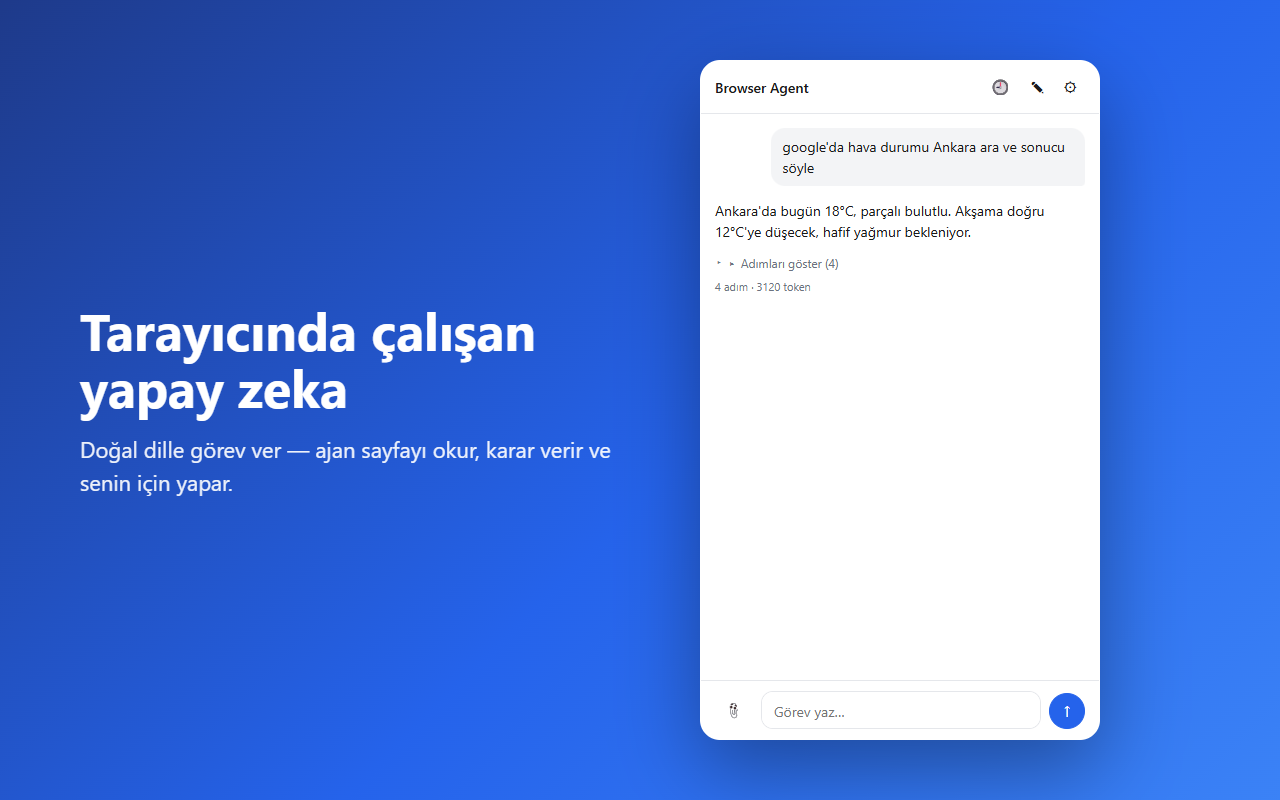
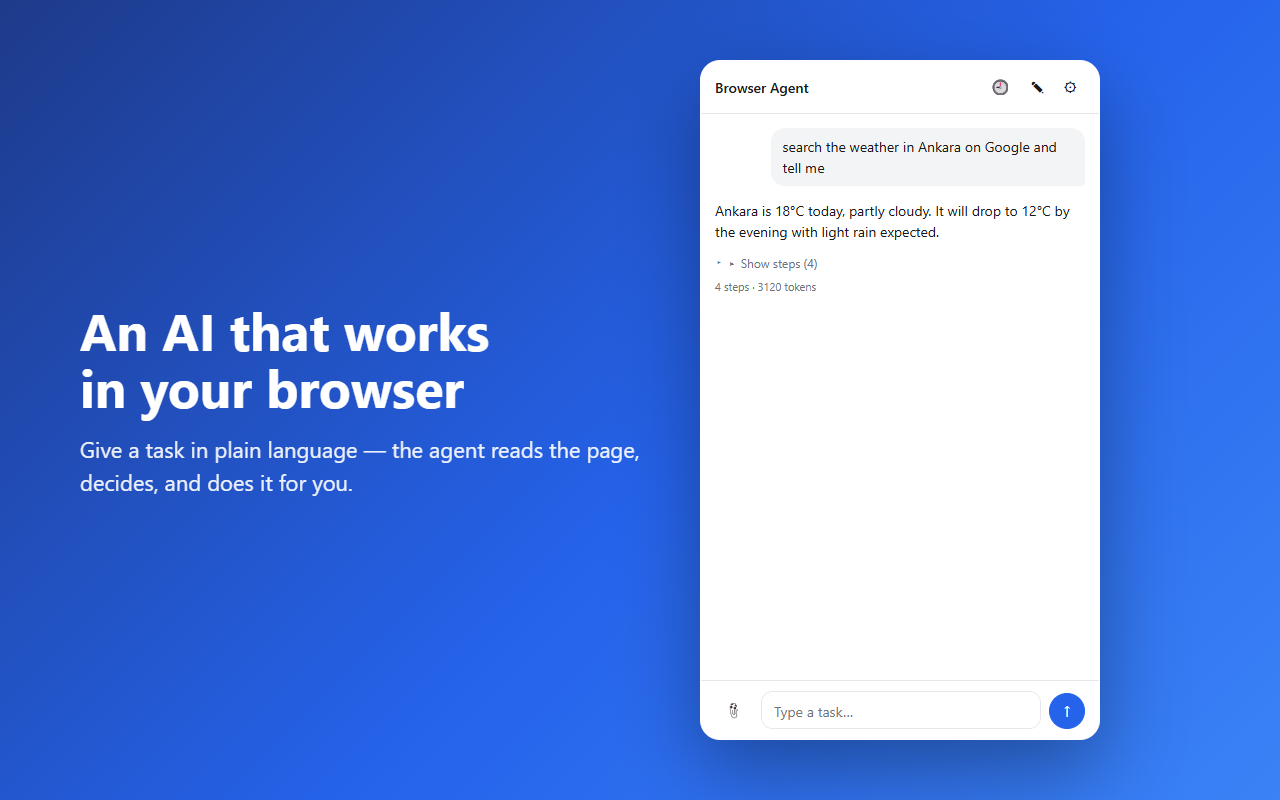
TR/EN dil secenegi + Ingilizce varsayilan + Ingilizce ekran goruntuleri
- i18n.ts: TR/EN ceviri sozlugu, data-i18n attribute'lariyla arayuz cevrilir.
  Ayarlarda dil secici (Turkce/English), secim chrome.storage'da saklanir.
- Varsayilan dil ARTIK INGILIZCE (uluslararasi kullanicilar icin). HTML statik
  metinleri de Ingilizce.
- Bug fix: data-i18n dogrudan label'da textContent select'i siliyordu; etiket
  metni span'a alindi.
- Store ekran goruntuleri Ingilizce yeniden render edildi.
- Uzanti v0.6.0.

diff --git a/packages/extension/src/sidepanel/sidepanel.html b/packages/extension/src/sidepanel/sidepanel.html
@@ -1,5 +1,5 @@
 <!DOCTYPE html>
-<html lang="tr">
+<html lang="en">
 <head>
   <meta charset="utf-8">
   <meta name="viewport" content="width=device-width, initial-scale=1">
@@ -10,22 +10,22 @@
   <header>
     <div class="brand">Browser Agent</div>
     <div class="header-actions">
-      <button id="history-toggle" class="icon-btn" title="Geçmiş sohbetler">🕘</button>
-      <button id="new-chat" class="icon-btn" title="Yeni sohbet">✎</button>
-      <button id="settings-toggle" class="icon-btn" title="Ayarlar">⚙</button>
+      <button id="history-toggle" class="icon-btn" data-i18n-title="titleHistory">🕘</button>
+      <button id="new-chat" class="icon-btn" data-i18n-title="titleNewChat">✎</button>
+      <button id="settings-toggle" class="icon-btn" data-i18n-title="titleSettings">⚙</button>
     </div>
   </header>
 
   <!-- History drawer -->
   <section id="history" class="drawer" hidden>
-    <div class="drawer-title">Geçmiş sohbetler</div>
+    <div class="drawer-title" data-i18n="historyTitle">Past chats</div>
     <ul id="history-list" class="history-list"></ul>
-    <div id="history-empty" class="muted" style="text-align:center;padding:10px;">Henüz sohbet yok.</div>
+    <div id="history-empty" class="muted" style="text-align:center;padding:10px;" data-i18n="historyEmpty">No chats yet.</div>
   </section>
 
   <!-- Settings drawer (hidden by default) -->
   <section id="settings" class="drawer" hidden>
-    <label>Yapay zeka sağlayıcı
+    <label><span data-i18n="providerLabel">AI provider</span>
       <select id="provider">
         <option value="anthropic">Anthropic (Claude)</option>
         <option value="openai">OpenAI (GPT)</option>
@@ -33,40 +33,47 @@
         <option value="openrouter">OpenRouter</option>
         <option value="deepseek">DeepSeek</option>
         <option value="groq">Groq</option>
-        <option value="ollama">Ollama (yerel)</option>
-        <option value="custom">Özel (OpenAI uyumlu)</option>
+        <option value="ollama">Ollama</option>
+        <option value="custom">Custom (OpenAI-compatible)</option>
       </select>
     </label>
-    <label>API anahtarı <span id="key-hint" class="muted"></span>
-      <input id="api-key" type="password" placeholder="anahtar">
+    <label><span data-i18n="apiKeyLabel">API key</span> <span id="key-hint" class="muted"></span>
+      <input id="api-key" type="password" data-i18n-ph="apiKeyPh" placeholder="key">
     </label>
-    <label id="baseurl-label" hidden>Base URL
+    <label id="baseurl-label" hidden><span data-i18n="baseUrlLabel">Base URL</span>
       <input id="base-url" type="text" placeholder="http://localhost:11434/v1">
     </label>
-    <label>Model (adım)
+    <label><span data-i18n="modelLabel">Model (step)</span>
       <input id="cheap-model" type="text">
     </label>
     <input id="strong-model" type="hidden">
 
+    <label><span data-i18n="langLabel">App language</span>
+      <select id="lang">
+        <option value="tr">Türkçe</option>
+        <option value="en">English</option>
+      </select>
+    </label>
+
     <details class="advanced">
-      <summary>Gelişmiş</summary>
-      <label class="row-line">İzinli alan adları <span class="muted">(boş = tüm siteler)</span>
-        <input id="domains" type="text" placeholder="boş = her site">
+      <summary data-i18n="advanced">Advanced</summary>
+      <label class="row-line"><span data-i18n="domainsLabel">Allowed domains</span> <span class="muted" data-i18n="domainsHint">(empty = all sites)</span>
+        <input id="domains" type="text" data-i18n-ph="domainsPh" placeholder="empty = any site">
       </label>
-      <label class="row-line">Maks. adım <span class="muted">(0 = sınırsız)</span>
+      <label class="row-line"><span data-i18n="maxStepsLabel">Max steps</span> <span class="muted" data-i18n="maxStepsHint">(0 = unlimited)</span>
         <input id="max-steps" type="number" value="0" min="0">
       </label>
-      <label class="checkline"><input id="validate" type="checkbox"> Her adımı doğrula</label>
+      <label class="checkline"><input id="validate" type="checkbox"> <span data-i18n="validateLabel">Validate each step</span></label>
     </details>
 
-    <button id="save-settings" class="primary">Kaydet</button>
+    <button id="save-settings" class="primary" data-i18n="save">Save</button>
   </section>
 
   <!-- Chat transcript -->
   <main id="chat">
     <div id="empty" class="empty">
-      <p>Bir görev yaz, tarayıcıda senin için yapayım.</p>
-      <p class="muted">Örn: "google'da hava durumu Ankara ara ve sonucu söyle"</p>
+      <p data-i18n="emptyLine1">Type a task and I'll do it in your browser.</p>
+      <p class="muted" data-i18n="emptyLine2">e.g. "search the weather in Ankara on Google and tell me"</p>
     </div>
   </main>
 
@@ -74,8 +81,8 @@
   <section id="approval" class="approval" hidden>
     <p id="approval-text"></p>
     <div class="row">
-      <button id="approve-yes" class="danger">Onayla</button>
-      <button id="approve-no" class="ghost">Reddet</button>
+      <button id="approve-yes" class="danger" data-i18n="approve">Approve</button>
+      <button id="approve-no" class="ghost" data-i18n="reject">Reject</button>
     </div>
   </section>
 
@@ -86,10 +93,10 @@
   <footer class="composer">
     <input id="file-input" type="file" multiple hidden
            accept=".txt,.csv,.json,.md,.tsv,.log,.xml,.html,.yml,.yaml">
-    <button id="attach" class="icon-btn" title="Dosya ekle">📎</button>
-    <textarea id="task" rows="1" placeholder="Görev yaz…"></textarea>
-    <button id="cancel" class="icon-btn" title="Durdur" hidden>■</button>
-    <button id="send" class="send-btn" title="Gönder">↑</button>
+    <button id="attach" class="icon-btn" data-i18n-title="titleAttach">📎</button>
+    <textarea id="task" rows="1" data-i18n-ph="taskPh" placeholder="Type a task…"></textarea>
+    <button id="cancel" class="icon-btn" data-i18n-title="titleCancel" hidden>■</button>
+    <button id="send" class="send-btn" data-i18n-title="titleSend">↑</button>
   </footer>
 
   <script src="sidepanel.js"></script>

diff --git a/packages/extension/src/sidepanel/sidepanel.ts b/packages/extension/src/sidepanel/sidepanel.ts
@@ -5,6 +5,7 @@
  */
 import type { AttachedFile, BackgroundEvent, PanelCommand } from "../shared/protocol";
 import { PANEL_PORT } from "../shared/protocol";
+import { applyI18n, Lang, setLang, t } from "./i18n";
 
 const $ = <T extends HTMLElement>(id: string): T => document.getElementById(id) as T;
 
@@ -65,13 +66,13 @@ function beginAgentTurn(): void {
 
   const result = document.createElement("div");
   result.className = "result running";
-  result.textContent = "Çalışıyor…";
+  result.textContent = t("running");
 
   const stepsDetails = document.createElement("details");
   stepsDetails.className = "steps";
   stepsDetails.hidden = true; // shown once the first step arrives
   const summary = document.createElement("summary");
-  summary.textContent = "Adımları göster";
+  summary.textContent = t("stepsToggle");
   const steps = document.createElement("ol");
   stepsDetails.appendChild(summary);
   stepsDetails.appendChild(steps);
@@ -115,7 +116,7 @@ function finishAgentTurn(text: string, kind: "ok" | "fail", meta?: string): void
   // Collapse the steps summary label to reflect it's done.
   const summary = activeTurn.steps.parentElement?.querySelector("summary");
   if (summary && activeTurn.steps.children.length) {
-    summary.textContent = `Adımları göster (${activeTurn.steps.children.length})`;
+    summary.textContent = `${t("stepsToggle")} (${activeTurn.steps.children.length})`;
   }
   activeTurn = null;
   scrollDown();
@@ -168,7 +169,20 @@ $("settings-toggle").addEventListener("click", () => {
   settingsSection.hidden = !settingsSection.hidden;
 });
 
-chrome.storage.local.get(["provider", "apiKey", "strongModel", "cheapModel", "baseUrl"], (s) => {
+// Language: apply immediately when changed, persist on save.
+const langSel = $<HTMLSelectElement>("lang");
+langSel.addEventListener("change", () => {
+  setLang(langSel.value as Lang);
+  applyI18n();
+});
+
+chrome.storage.local.get(["provider", "apiKey", "strongModel", "cheapModel", "baseUrl", "lang"], (s) => {
+  // Default to English; only switch if the user previously chose a language.
+  const lang = (s.lang as Lang) ?? "en";
+  setLang(lang);
+  langSel.value = lang;
+  applyI18n();
+
   const provider = s.provider ?? "anthropic";
   providerSel.value = provider;
   applyProviderInfo(provider, false);
@@ -187,7 +201,10 @@ $("save-settings").addEventListener("click", () => {
   const strongModel = strongInput.value.trim() || undefined;
   const cheapModel = cheapInput.value.trim() || undefined;
   const baseUrl = $<HTMLInputElement>("base-url").value.trim() || undefined;
-  chrome.storage.local.set({ provider, apiKey, strongModel, cheapModel, baseUrl });
+  const lang = langSel.value as Lang;
+  setLang(lang);
+  applyI18n();
+  chrome.storage.local.set({ provider, apiKey, strongModel, cheapModel, baseUrl, lang });
   send({ kind: "setProvider", provider, apiKey, strongModel, cheapModel, baseUrl });
   settingsSection.hidden = true;
 });
@@ -260,7 +277,7 @@ function renderConversationList(list: { id: string; title: string; turnCount: nu
     const li = document.createElement("li");
     const title = document.createElement("span");
     title.className = "h-title";
-    title.textContent = c.title || "(başlıksız)";
+    title.textContent = c.title || t("emptyTask");
     title.addEventListener("click", () => {
       send({ kind: "loadConversation", id: c.id });
       historyDrawer.hidden = true;
@@ -268,7 +285,7 @@ function renderConversationList(list: { id: string; title: string; turnCount: nu
     const del = document.createElement("button");
     del.className = "h-del";
     del.textContent = "🗑";
-    del.title = "Sil";
+    del.title = t("delete");
     del.addEventListener("click", (e) => {
       e.stopPropagation();
       send({ kind: "deleteConversation", id: c.id });
@@ -348,12 +365,12 @@ port.onMessage.addListener((ev: BackgroundEvent) => {
       addStep(ev.action, ev.thought);
       break;
     case "approvalRequest":
-      $("approval-text").textContent = `Onay gerekiyor: ${ev.description}`;
+      $("approval-text").textContent = `${t("approvalPrefix")}: ${ev.description}`;
       approvalSection.hidden = false;
       break;
     case "done":
       finishAgentTurn(
-        ev.ok ? ev.message : `Tamamlanamadı: ${ev.message}`,
+        ev.ok ? ev.message : `${t("notCompleted")}: ${ev.message}`,
         ev.ok ? "ok" : "fail",
         `${ev.steps} adım · ${ev.tokens} token`,
       );
@@ -361,7 +378,7 @@ port.onMessage.addListener((ev: BackgroundEvent) => {
       stepNo = 0;
       break;
     case "error":
-      finishAgentTurn(`Hata: ${ev.message}`, "fail");
+      finishAgentTurn(`${t("error")}: ${ev.message}`, "fail");
       setRunning(false);
       stepNo = 0;
       break;

diff --git a/packages/extension/src/sidepanel/i18n.ts b/packages/extension/src/sidepanel/i18n.ts
@@ -1,0 +1,118 @@
+/**
+ * Minimal i18n for the side panel. Two languages (Turkish, English) selected in
+ * settings and stored in chrome.storage.local. `t(key)` returns the string for
+ * the active language; `applyI18n()` fills every element marked with a data
+ * attribute (data-i18n = textContent, data-i18n-title = title,
+ * data-i18n-ph = placeholder).
+ */
+
+export type Lang = "tr" | "en";
+
+type Dict = Record<string, string>;
+
+const TR: Dict = {
+  historyTitle: "Geçmiş sohbetler",
+  historyEmpty: "Henüz sohbet yok.",
+  providerLabel: "Yapay zeka sağlayıcı",
+  apiKeyLabel: "API anahtarı",
+  apiKeyPh: "anahtar",
+  baseUrlLabel: "Base URL",
+  modelLabel: "Model (adım)",
+  advanced: "Gelişmiş",
+  domainsLabel: "İzinli alan adları",
+  domainsHint: "(boş = tüm siteler)",
+  domainsPh: "boş = her site",
+  maxStepsLabel: "Maks. adım",
+  maxStepsHint: "(0 = sınırsız)",
+  validateLabel: "Her adımı doğrula",
+  langLabel: "Uygulama dili",
+  save: "Kaydet",
+  emptyLine1: "Bir görev yaz, tarayıcıda senin için yapayım.",
+  emptyLine2: 'Örn: "google\'da hava durumu Ankara ara ve sonucu söyle"',
+  approve: "Onayla",
+  reject: "Reddet",
+  taskPh: "Görev yaz…",
+  titleHistory: "Geçmiş sohbetler",
+  titleNewChat: "Yeni sohbet",
+  titleSettings: "Ayarlar",
+  titleAttach: "Dosya ekle",
+  titleCancel: "Durdur",
+  titleSend: "Gönder",
+  // Runtime strings
+  running: "Çalışıyor…",
+  stepsToggle: "Adımları göster",
+  notCompleted: "Tamamlanamadı",
+  error: "Hata",
+  approvalPrefix: "Onay gerekiyor",
+  emptyTask: "(başlıksız)",
+  delete: "Sil",
+  unlimitedWarn: "Adım sınırı yok. Gerekirse 'Durdur' ile durdur.",
+  allSitesWarn: "Tüm sitelere izin verildi (sınırsız mod). Yıkıcı aksiyonlarda onay istenir.",
+};
+
+const EN: Dict = {
+  historyTitle: "Past chats",
+  historyEmpty: "No chats yet.",
+  providerLabel: "AI provider",
+  apiKeyLabel: "API key",
+  apiKeyPh: "key",
+  baseUrlLabel: "Base URL",
+  modelLabel: "Model (step)",
+  advanced: "Advanced",
+  domainsLabel: "Allowed domains",
+  domainsHint: "(empty = all sites)",
+  domainsPh: "empty = any site",
+  maxStepsLabel: "Max steps",
+  maxStepsHint: "(0 = unlimited)",
+  validateLabel: "Validate each step",
+  langLabel: "App language",
+  save: "Save",
+  emptyLine1: "Type a task and I'll do it in your browser.",
+  emptyLine2: 'e.g. "search the weather in Ankara on Google and tell me"',
+  approve: "Approve",
+  reject: "Reject",
+  taskPh: "Type a task…",
+  titleHistory: "Past chats",
+  titleNewChat: "New chat",
+  titleSettings: "Settings",
+  titleAttach: "Attach file",
+  titleCancel: "Stop",
+  titleSend: "Send",
+  running: "Working…",
+  stepsToggle: "Show steps",
+  notCompleted: "Not completed",
+  error: "Error",
+  approvalPrefix: "Approval needed",
+  emptyTask: "(untitled)",
+  delete: "Delete",
+  unlimitedWarn: "No step limit. Use 'Stop' if needed.",
+  allSitesWarn: "All sites allowed (unrestricted). Destructive actions still ask for approval.",
+};
+
+const DICTS: Record<Lang, Dict> = { tr: TR, en: EN };
+let current: Lang = "en"; // English is the default UI language.
+
+export function setLang(lang: Lang): void {
+  current = lang === "en" ? "en" : "tr";
+}
+export function getLang(): Lang {
+  return current;
+}
+export function t(key: string): string {
+  return DICTS[current][key] ?? DICTS.tr[key] ?? key;
+}
+
+/** Fill all elements marked with data-i18n / data-i18n-title / data-i18n-ph. */
+export function applyI18n(root: ParentNode = document): void {
+  root.querySelectorAll<HTMLElement>("[data-i18n]").forEach((el) => {
+    const key = el.dataset.i18n!;
+    el.textContent = t(key);
+  });
+  root.querySelectorAll<HTMLElement>("[data-i18n-title]").forEach((el) => {
+    el.title = t(el.dataset.i18nTitle!);
+  });
+  root.querySelectorAll<HTMLInputElement | HTMLTextAreaElement>("[data-i18n-ph]").forEach((el) => {
+    el.placeholder = t((el as HTMLElement).dataset.i18nPh!);
+  });
+  document.documentElement.lang = current;
+}
